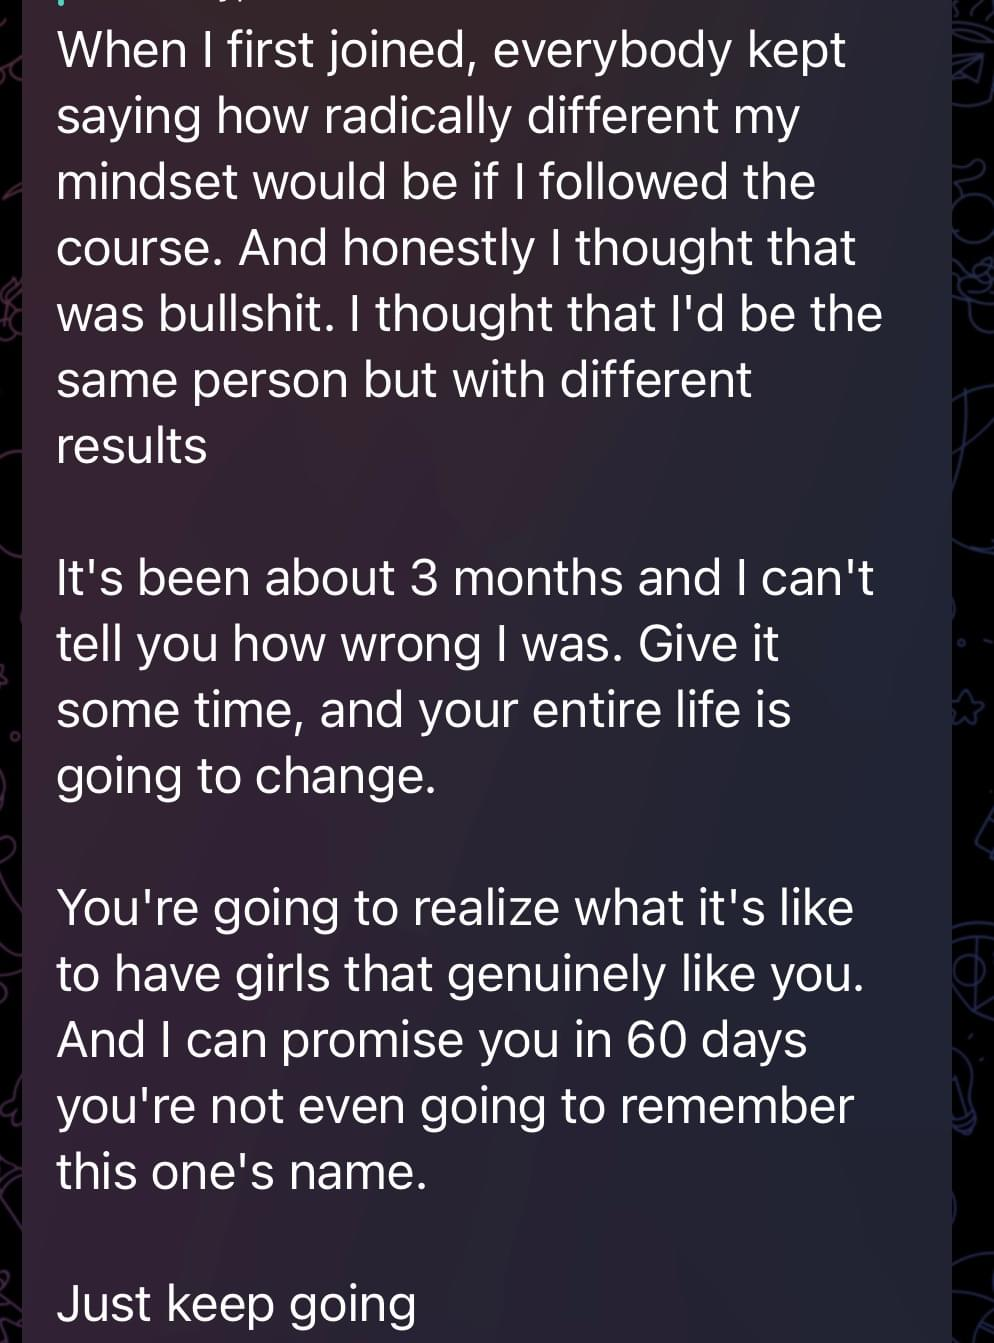
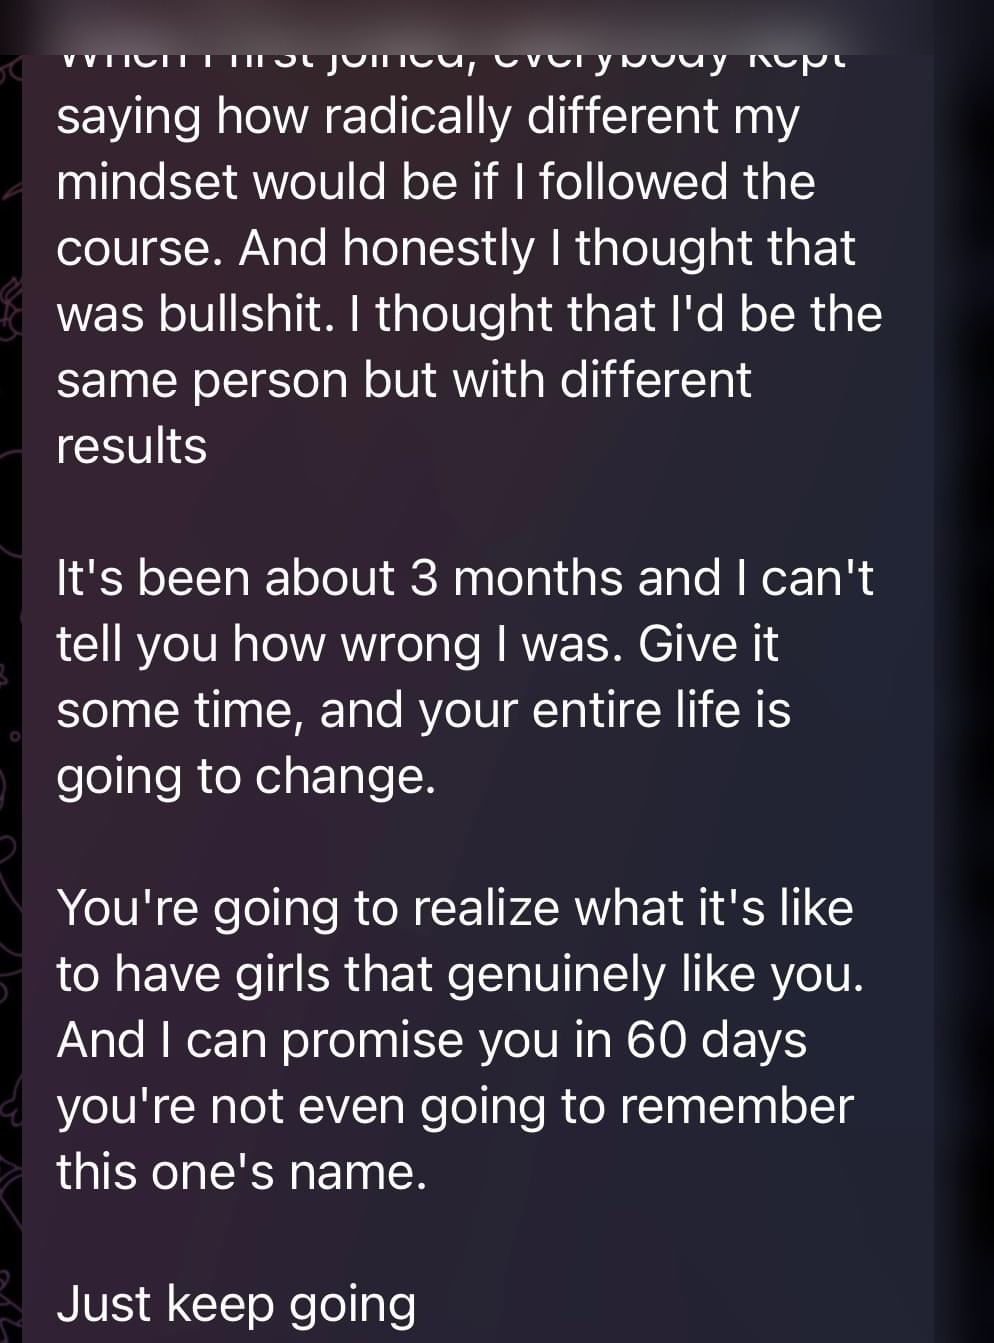
feat: blur testimonial names/pics, desktop mosaic layout, mobile subtitle

diff --git a/index.html b/index.html
@@ -4176,6 +4176,44 @@ body.deliv-modal-open { overflow: hidden; }
   .system-pipeline-visual { margin-top: 36px !important; }
 }
 
+/* Testimonial proof mosaic — desktop only puzzle layout */
+.tg-proof-mosaic {
+  display: grid;
+  grid-template-columns: 3fr 5fr;
+  gap: 12px;
+  max-width: 860px;
+  margin: 40px auto 0;
+  align-items: stretch;
+}
+.tg-proof-mosaic img {
+  width: 100%;
+  height: 100%;
+  object-fit: cover;
+  border-radius: 14px;
+  border: 1px solid var(--border-2);
+  display: block;
+}
+/* Hide on mobile — images appear in scroll feed instead */
+@media (max-width: 768px) {
+  .tg-proof-mosaic { display: none; }
+}
+
+/* Mobile subtitle under "These are not outliers" */
+.testi-mobile-sub {
+  display: none;
+}
+@media (max-width: 768px) {
+  .testi-mobile-sub {
+    display: block;
+    text-align: center;
+    font-size: 14px;
+    color: var(--w55);
+    line-height: 1.5;
+    max-width: 320px;
+    margin: 14px auto 0;
+  }
+}
+
 /* Screenshot testimonial image cards */
 .tc-img-card { padding: 0 !important; overflow: hidden; width: 280px; }
 .tc-img-card img { border-radius: 14px; }
@@ -5087,6 +5125,15 @@ body.deliv-modal-open { overflow: hidden; }
   <div class="inner">
     <p class="eyebrow text-center reveal d1">Real Clients</p>
     <h2 class="reveal d1 text-center">These are not outliers.</h2>
+
+    <!-- Mobile subtitle -->
+    <p class="testi-mobile-sub reveal d2">Some of the wins from inside the community. Scroll yourself to see what the average day inside Atlas looks like.</p>
+
+    <!-- Desktop: puzzle-fit screenshot mosaic (hidden on mobile) -->
+    <div class="tg-proof-mosaic reveal d2">
+      <img src="img/tg-testimonials/IMG_2685-2.jpg" alt="Client result — 18 matches in one day">
+      <img src="img/tg-testimonials/IMG_2503.jpg" alt="Client result — mindset shift">
+    </div>
 
     <!-- Mobile: single vertical scroll feed (notif-style, rAF auto-scroll) -->
     <div class="testi-scroll-feed" id="testiMobileFeed">
